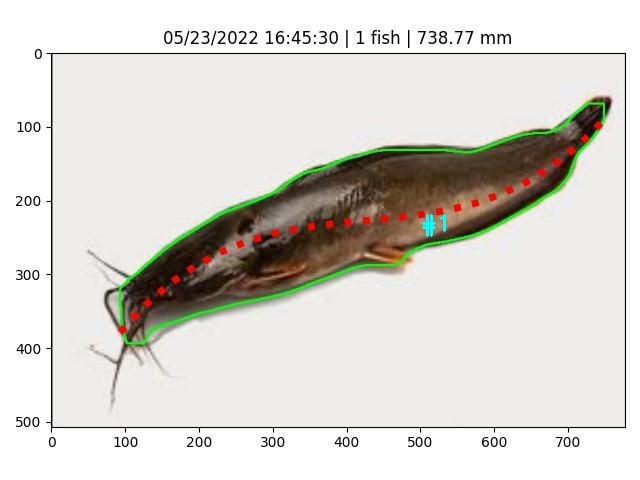
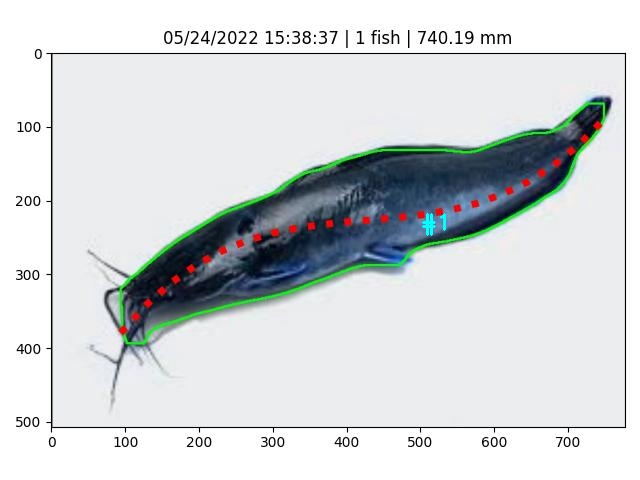
clear

diff --git a/src/mafunction.py b/src/mafunction.py
@@ -30,7 +30,7 @@ def only_last_path(full_path='srcpath\../dirname/filename.format'):
 		if full_path[i] == '/':
 			limit_slash -= 1
 			if limit_slash == 0:
-				return str(full_path[i:])
+				return str(full_path[i+1:])
 
 
 def is_file_empty(file_path):
@@ -580,7 +580,8 @@ def generate_resultjson():
 		}
 
 		# Create new key based on img path
-		key_name = str(cmd.args["image"]).replace('img/', '')
+		#key_name = str(cmd.args["image"]).replace('img/', '')
+		key_name = str( only_last_path(full_path=cmd.args["image"]) ).replace('img/', '')
 		data[key_name] = tmp
 	
 	# Write the json file
@@ -594,7 +595,8 @@ def get_info_resultjson(info='datetime'):
 	with open(path, 'r') as fp:
 		data = json.load(fp)
 		for key in data.keys():
-			key_name = str(cmd.args['image']).replace('img/', '')
+			#key_name = str(cmd.args['image']).replace('img/', '')
+			key_name = str( only_last_path(full_path=cmd.args["image"]) ).replace('img/', '')
 			if key == key_name:
 				if info == 'avg_fishlength':
 					return str( round(data[key][info],2) )

diff --git a/src/segmentation.py b/src/segmentation.py
@@ -1,7 +1,7 @@
 import json
 import cv2 as cv
 import imutils
-from matplotlib import markers
+from matplotlib import markers, pyplot as plt
 import numpy as np
 import src.command as cmd
 import os
@@ -37,7 +37,8 @@ config_segmentation()
 
 # IMAGE SEGMENTATION PROCESS
 image_path = cmd.args["image"]
-image = cv.imread(image_path)            # Read the image
+#image = cv.imread(image_path)            # Read the image
+image = plt.imread(image_path)            # Read the image
 cvt = cv.cvtColor(image, cv.COLOR_BGR2GRAY)     # Convert object color to GRAY
 imgaus = cv.GaussianBlur(cvt, (param[0][0],param[0][1]), 0)      # Blur using Gaussian Method to ignore noise
 

diff --git a/run.py b/run.py
@@ -17,10 +17,11 @@ def run(isLinux=False):
 	for f in list:
 		# cmd /k : remain after run
 		# cmd /c : terminate after run
+		fpath = os.path.join(path, f)
 		if isLinux: 
-			os.system('python main.py --image img/%s' %f)
+			os.system('python main.py --image %s' %fpath)
 		else: 	# For Windows
-			os.system('cmd /c "python main.py --image img/%s"' %f)
+			os.system('cmd /c "python main.py --image %s"' %fpath)
 
 		# In this step, in result.json, "encoded": ""
 		# Add the encoded string to result.json for each image
